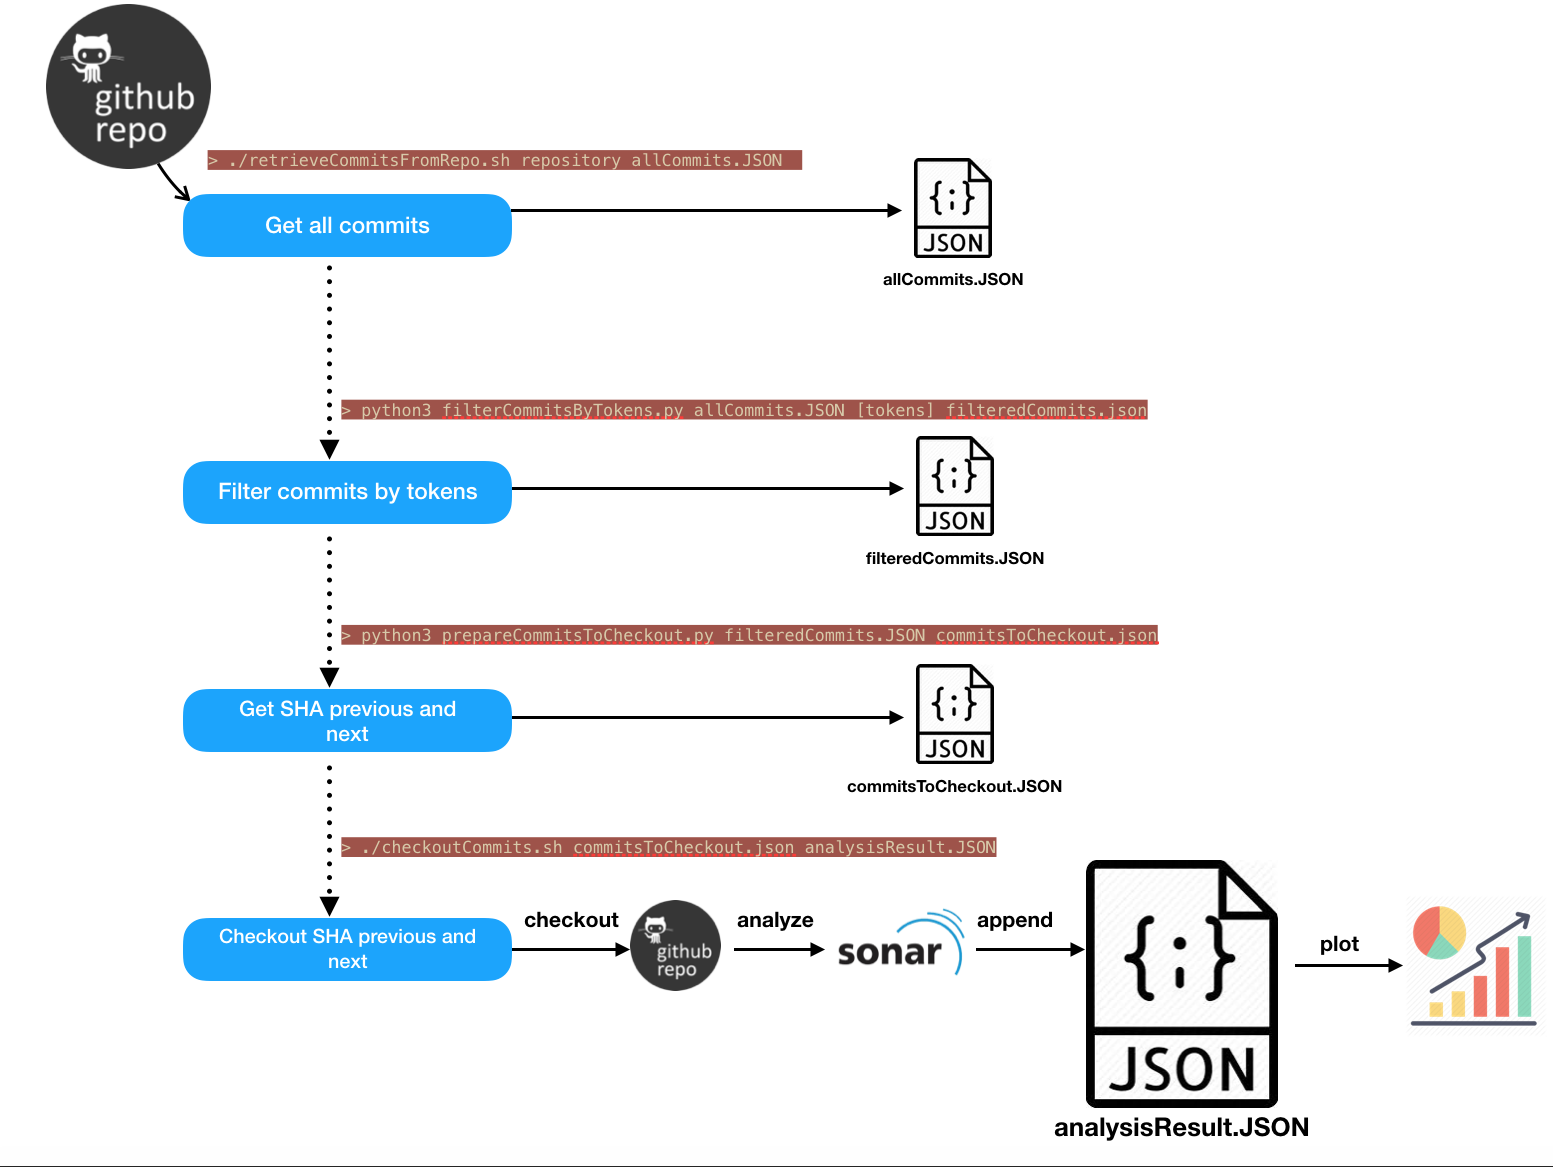
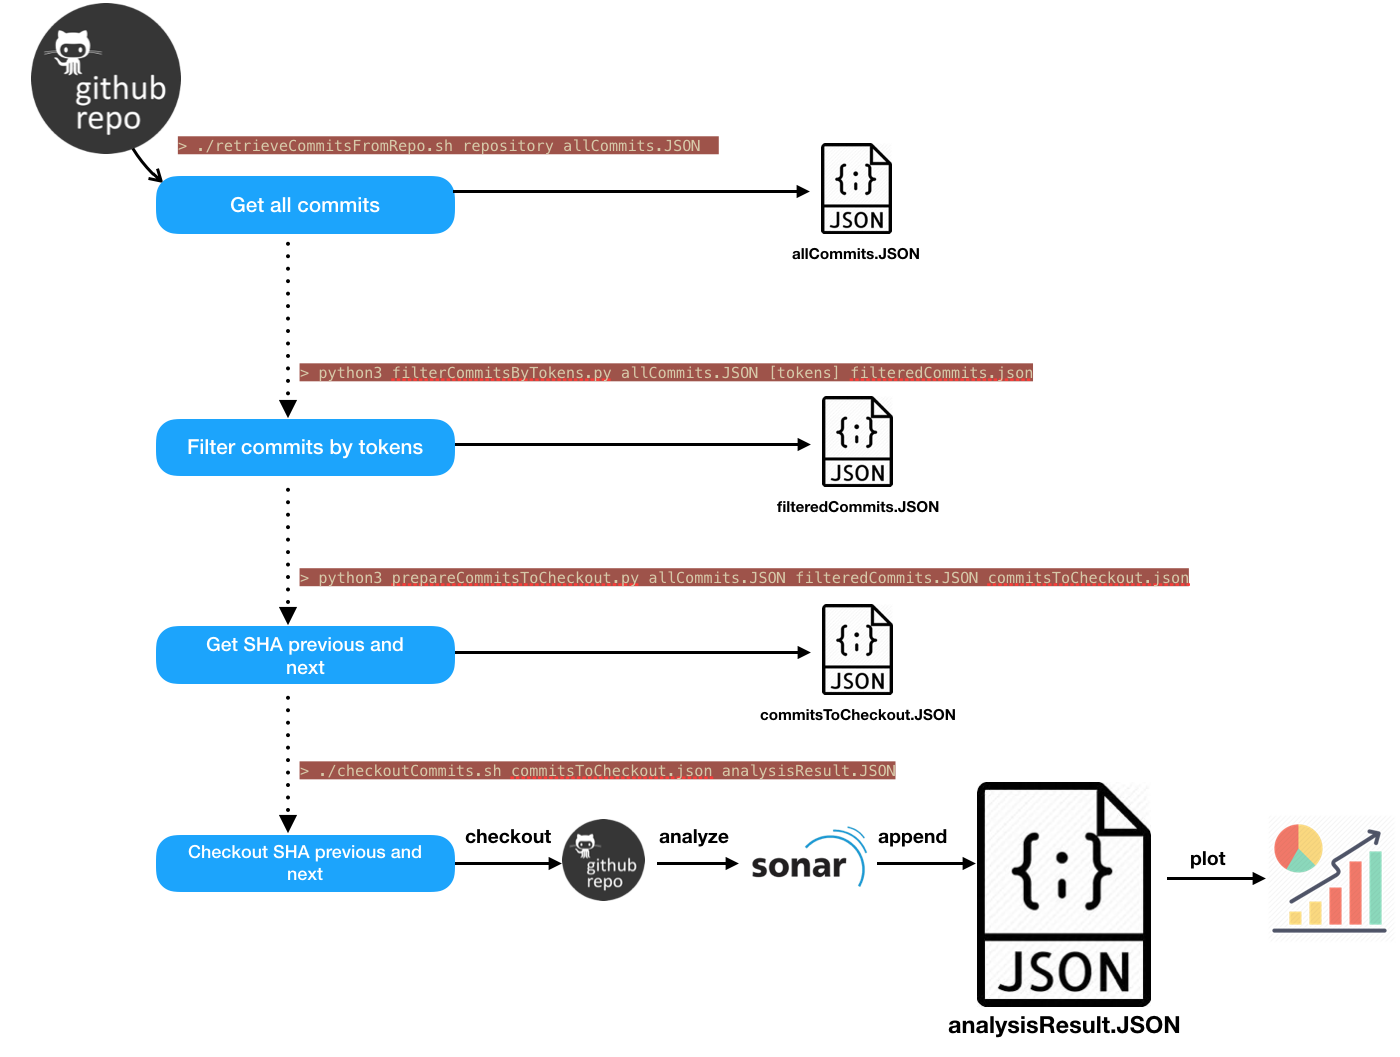
adding script to associate to each commit one previous and next commits

diff --git a/scripts/prepareCommitsToCheckout.py b/scripts/prepareCommitsToCheckout.py
@@ -1,0 +1,113 @@
+import sys
+import json
+import copy
+
+'''
+	this method returns a list of filtered commits SHA
+	loadedJSON is a JSON file loaded from filtered commits
+'''
+def getAllFilteredSHA(loadedJSON) :
+	filteredSHA=[]
+	for key in loadedJSON:
+		filteredSHA.append(loadedJSON[key])
+
+	return filteredSHA
+
+'''
+	this method returns a dictionary that associate to each commit from the filtered commits, 
+	the previous (or the next) one in order to checkout it to compare complexity.
+	It associates only one previous commit to each filtered commit.
+	The number of previous commits to save should be passed in argument, in a next version of this method.
+
+
+	There is a commented line (elif) which replaced by (if) : the elif statement will prevent associating a filtered commit to another filtered commit.
+	So the filtered commits list may not be empty at the end.
+	The if statement allows us to evenutally associate a filtered commit to another filtered one.
+
+	This method raises an Exception if there is at least one filtered commit which is not associated to another commit.
+
+	EVENTUAL BUG : IF THE FIRST COMMIT BELONGS TO THE FILTERED COMMITS, THIS METHOD SUCKS !!!
+'''
+def getListOfPreviousOrNextSHA(allCommits, filteredSHA, previous=True) :
+	takePreviousBoolean = False
+	result = {}
+	for key in allCommits:
+		if len(filteredSHA) > 0 :
+
+			if takePreviousBoolean :
+				if previous :  # we want the previous commits
+					result[filteredSHA[0]] = key["sha"]
+				else : # we want the next commits
+					result[filteredSHA[0]] = allCommits[allCommits.index(key)-2]["sha"]
+
+				filteredSHA.remove(filteredSHA[0])
+				takePreviousBoolean = False
+
+			#elif key["sha"] == filteredSHA[0] :
+			if len(filteredSHA) > 0 and key["sha"] == filteredSHA[0] :
+				takePreviousBoolean = True
+		else :
+			break
+
+
+	if len(filteredSHA) > 0 :
+		raise Exception("ERROR IN getListOfPreviousSHA() : filteredSHA list is NOT empty !")
+
+	return result
+	
+
+'''
+	this method creates a list of tuples. A tuple is (sha, previousSHA, nextSHA)
+'''
+def createDictionaryOfPreviousAndNextCommits(previousList, nextList) :
+	# we suppose that previous and next list have the same keys (same length)
+	if previousList.keys() != nextList.keys() :
+		raise Exception("ERROR IN createTupleOfPreviousAndNextCommits() : previous and next lists have not the same keys length !")
+
+	shaDictionary = {}
+	for sha in previousList :
+		shaDictionary[sha] = (previousList[sha], nextList[sha])
+
+	return shaDictionary
+
+
+if ( len(sys.argv) < 4 ) :
+	print("Give commits JSON file and Output file to store :\n python3 prepareCommitsToCheckout.py ../jsons/allCommits ../jsons/filteredCommits.json outputFileName.JSON")
+else :
+	allCommitsFile = sys.argv[1]
+	filteredCommitsFile = sys.argv[2]
+	outputFile = sys.argv[3]
+
+	# read filtered commits file 
+	with open(filteredCommitsFile, 'r') as f :
+		filteredJSON = json.load(f)
+
+	# read all commits file 
+	with open(allCommitsFile, 'r') as f :
+		allCommitsJSON = json.load(f)
+
+	# extract a list of SHA from filtered commits
+	filteredSHA=getAllFilteredSHA(filteredJSON)
+
+	# deep copy of filteredSHA in order to use it to retrieve previous and next commits
+	filteredSHA_deepCopy = copy.deepcopy(filteredSHA)
+
+	# associate to each filtered commit SHA, the previous and the next commit's SHA
+	previousCommits = getListOfPreviousOrNextSHA(allCommitsJSON, filteredSHA, False)
+	nextCommits = getListOfPreviousOrNextSHA(allCommitsJSON, filteredSHA_deepCopy, True)
+
+	# create dictionary {SHA : (previousSHA, nextSHA)}
+	dictionary = createDictionaryOfPreviousAndNextCommits(previousCommits, nextCommits)
+
+	# write output in JSON file
+	with open(outputFile, 'w') as outputFileName:
+		json.dump(dictionary, outputFileName)
+
+
+#	x = ('a', 'b', 'c')
+#	z = ('x' ,'y', 'z')
+#	l = [x, z]
+#	j=json.dumps(l)
+#	print(j)
+
+	
